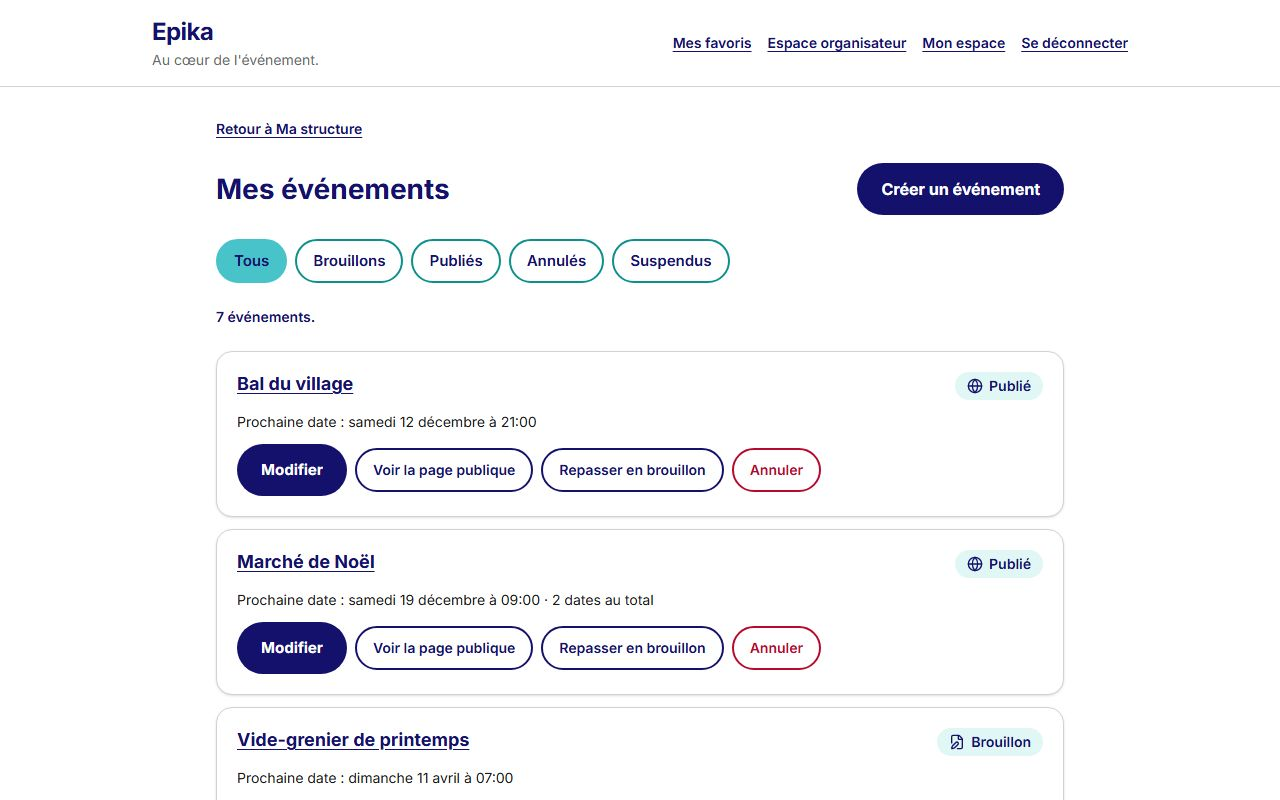
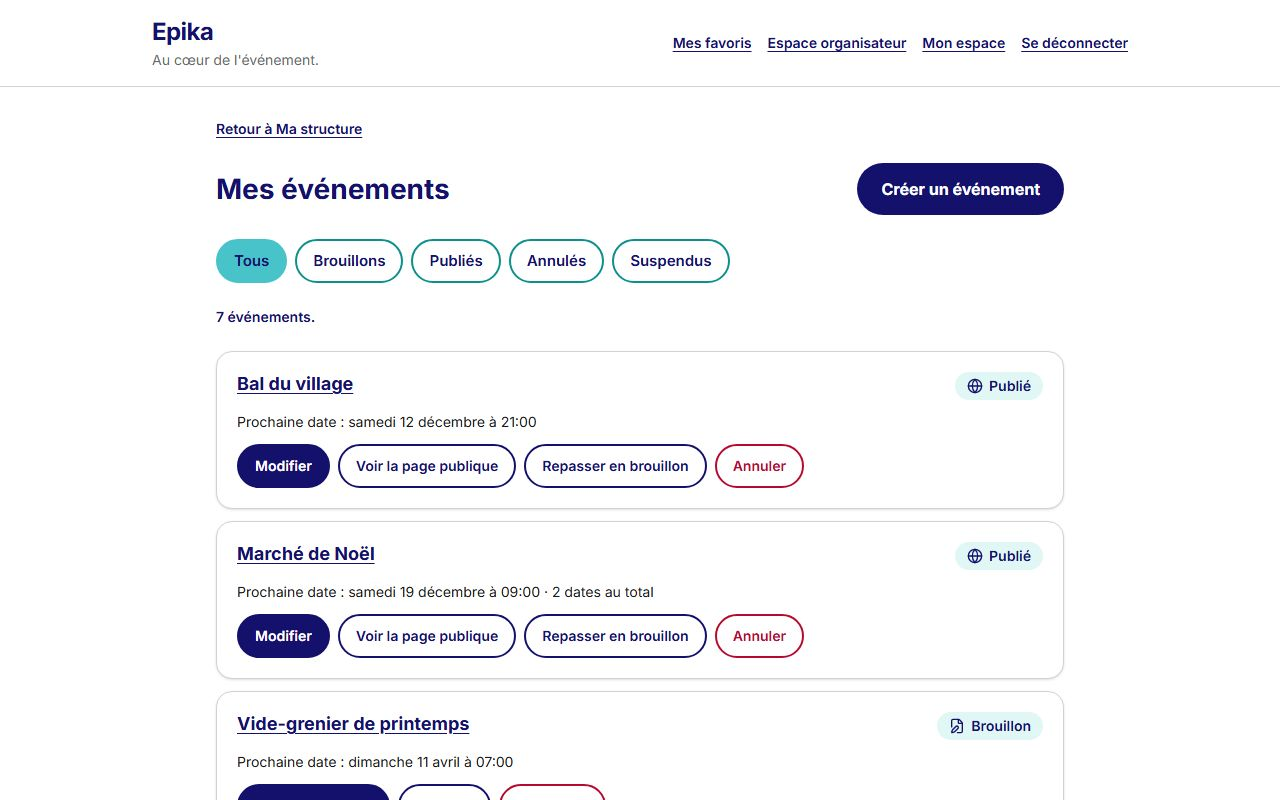
Retake the #85 screenshots with buttons of one height, name #226 on the page, 43 pull requests

Changed region(s): [[0.1875, 0.6875, 0.8125, 1.0], [0.1875, 0.5312, 0.8125, 0.7188], [0.4375, 0.9688, 0.4688, 1.0]]

diff --git a/issues/85-mes-evenements.html b/issues/85-mes-evenements.html
@@ -60,7 +60,7 @@ try { var t = localStorage.getItem("epika-journal-theme"); if (t === "light" || 
             <li><a href="#api">Les routes utilisées</a></li>
             <li><a href="#fichiers">Les fichiers clés</a></li>
             <li><a href="#tests">Les tests</a></li>
-            <li><a href="#prs">La pull request</a></li>
+            <li><a href="#prs">Les pull requests</a></li>
           </ol>
         </li>
         <li><a href="#appris">Ce que ce travail a appris</a></li>
@@ -355,9 +355,10 @@ try { var t = localStorage.getItem("epika-journal-theme"); if (t === "light" || 
         </section>
 
         <section id="prs" aria-labelledby="prs-titre">
-          <h2 id="prs-titre">La pull request</h2>
+          <h2 id="prs-titre">Les pull requests</h2>
           <ul class="prs">
             <li><span class="num">#225</span><span>La liste « Mes événements », son filtre, ses pages, ses trois fenêtres de confirmation ; toutes les sorties du formulaire y mènent ; les trois corrections du formulaire trouvées en essayant.</span></li>
+            <li><span class="num">#226</span><span>Tous les boutons d'une ligne à la même hauteur, trouvé en prenant les captures de cette page : le bouton principal portait deux hauteurs, et l'ordre du CSS choisissait la plus grande. Un test mesure maintenant les boutons tels qu'ils sont affichés.</span></li>
           </ul>
         </section>
 

diff --git a/index.html b/index.html
@@ -30,7 +30,7 @@ try { var t = localStorage.getItem("epika-journal-theme"); if (t === "light" || 
     <p class="lede">Epika, <em>au cœur de l'événement</em>, est une plateforme de découverte d'événements locaux : associations, mairies, entreprises. Ce journal raconte son développement, issue par issue : ce qui a été construit, comment, et surtout pourquoi.</p>
     <dl class="facts">
       <div class="fact"><dt>issues racontées</dt><dd>23</dd></div>
-      <div class="fact"><dt>pull requests</dt><dd>42</dd></div>
+      <div class="fact"><dt>pull requests</dt><dd>43</dd></div>
       <div class="fact"><dt>captures d'écran</dt><dd>240</dd></div>
     </dl>
     <a class="cta" href="#issues">Voir les issues terminées <span aria-hidden="true">↓</span></a>
